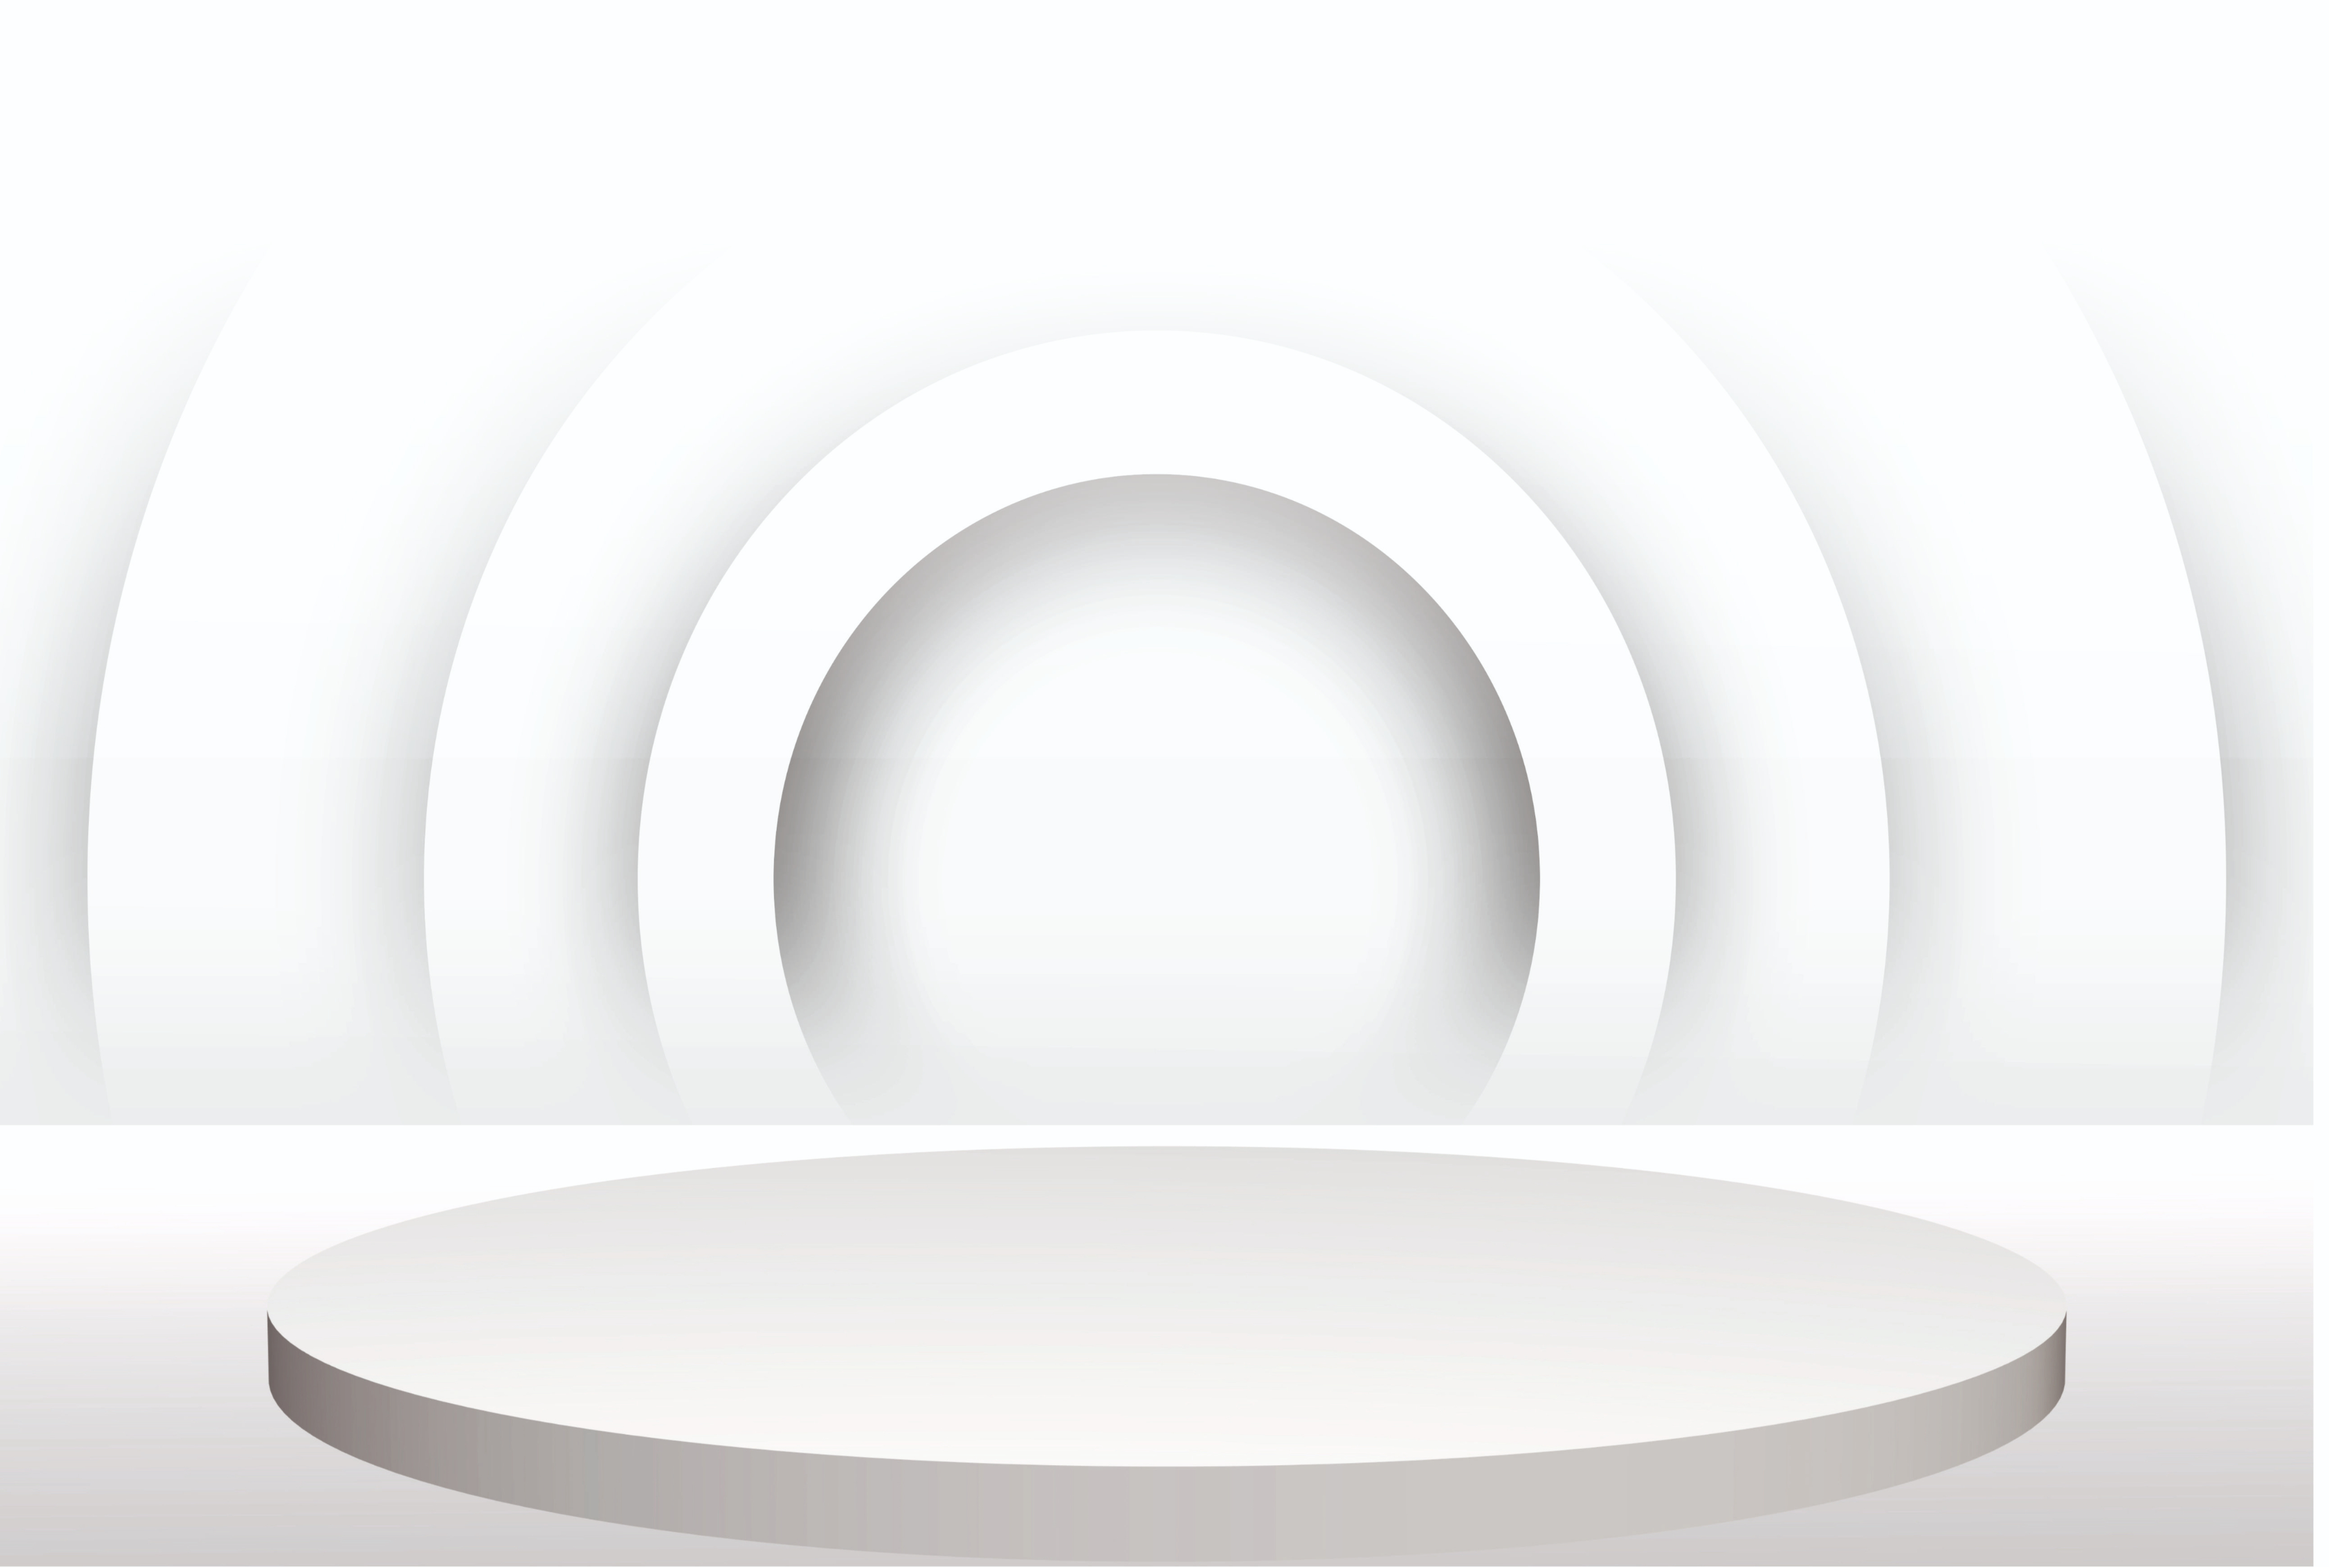
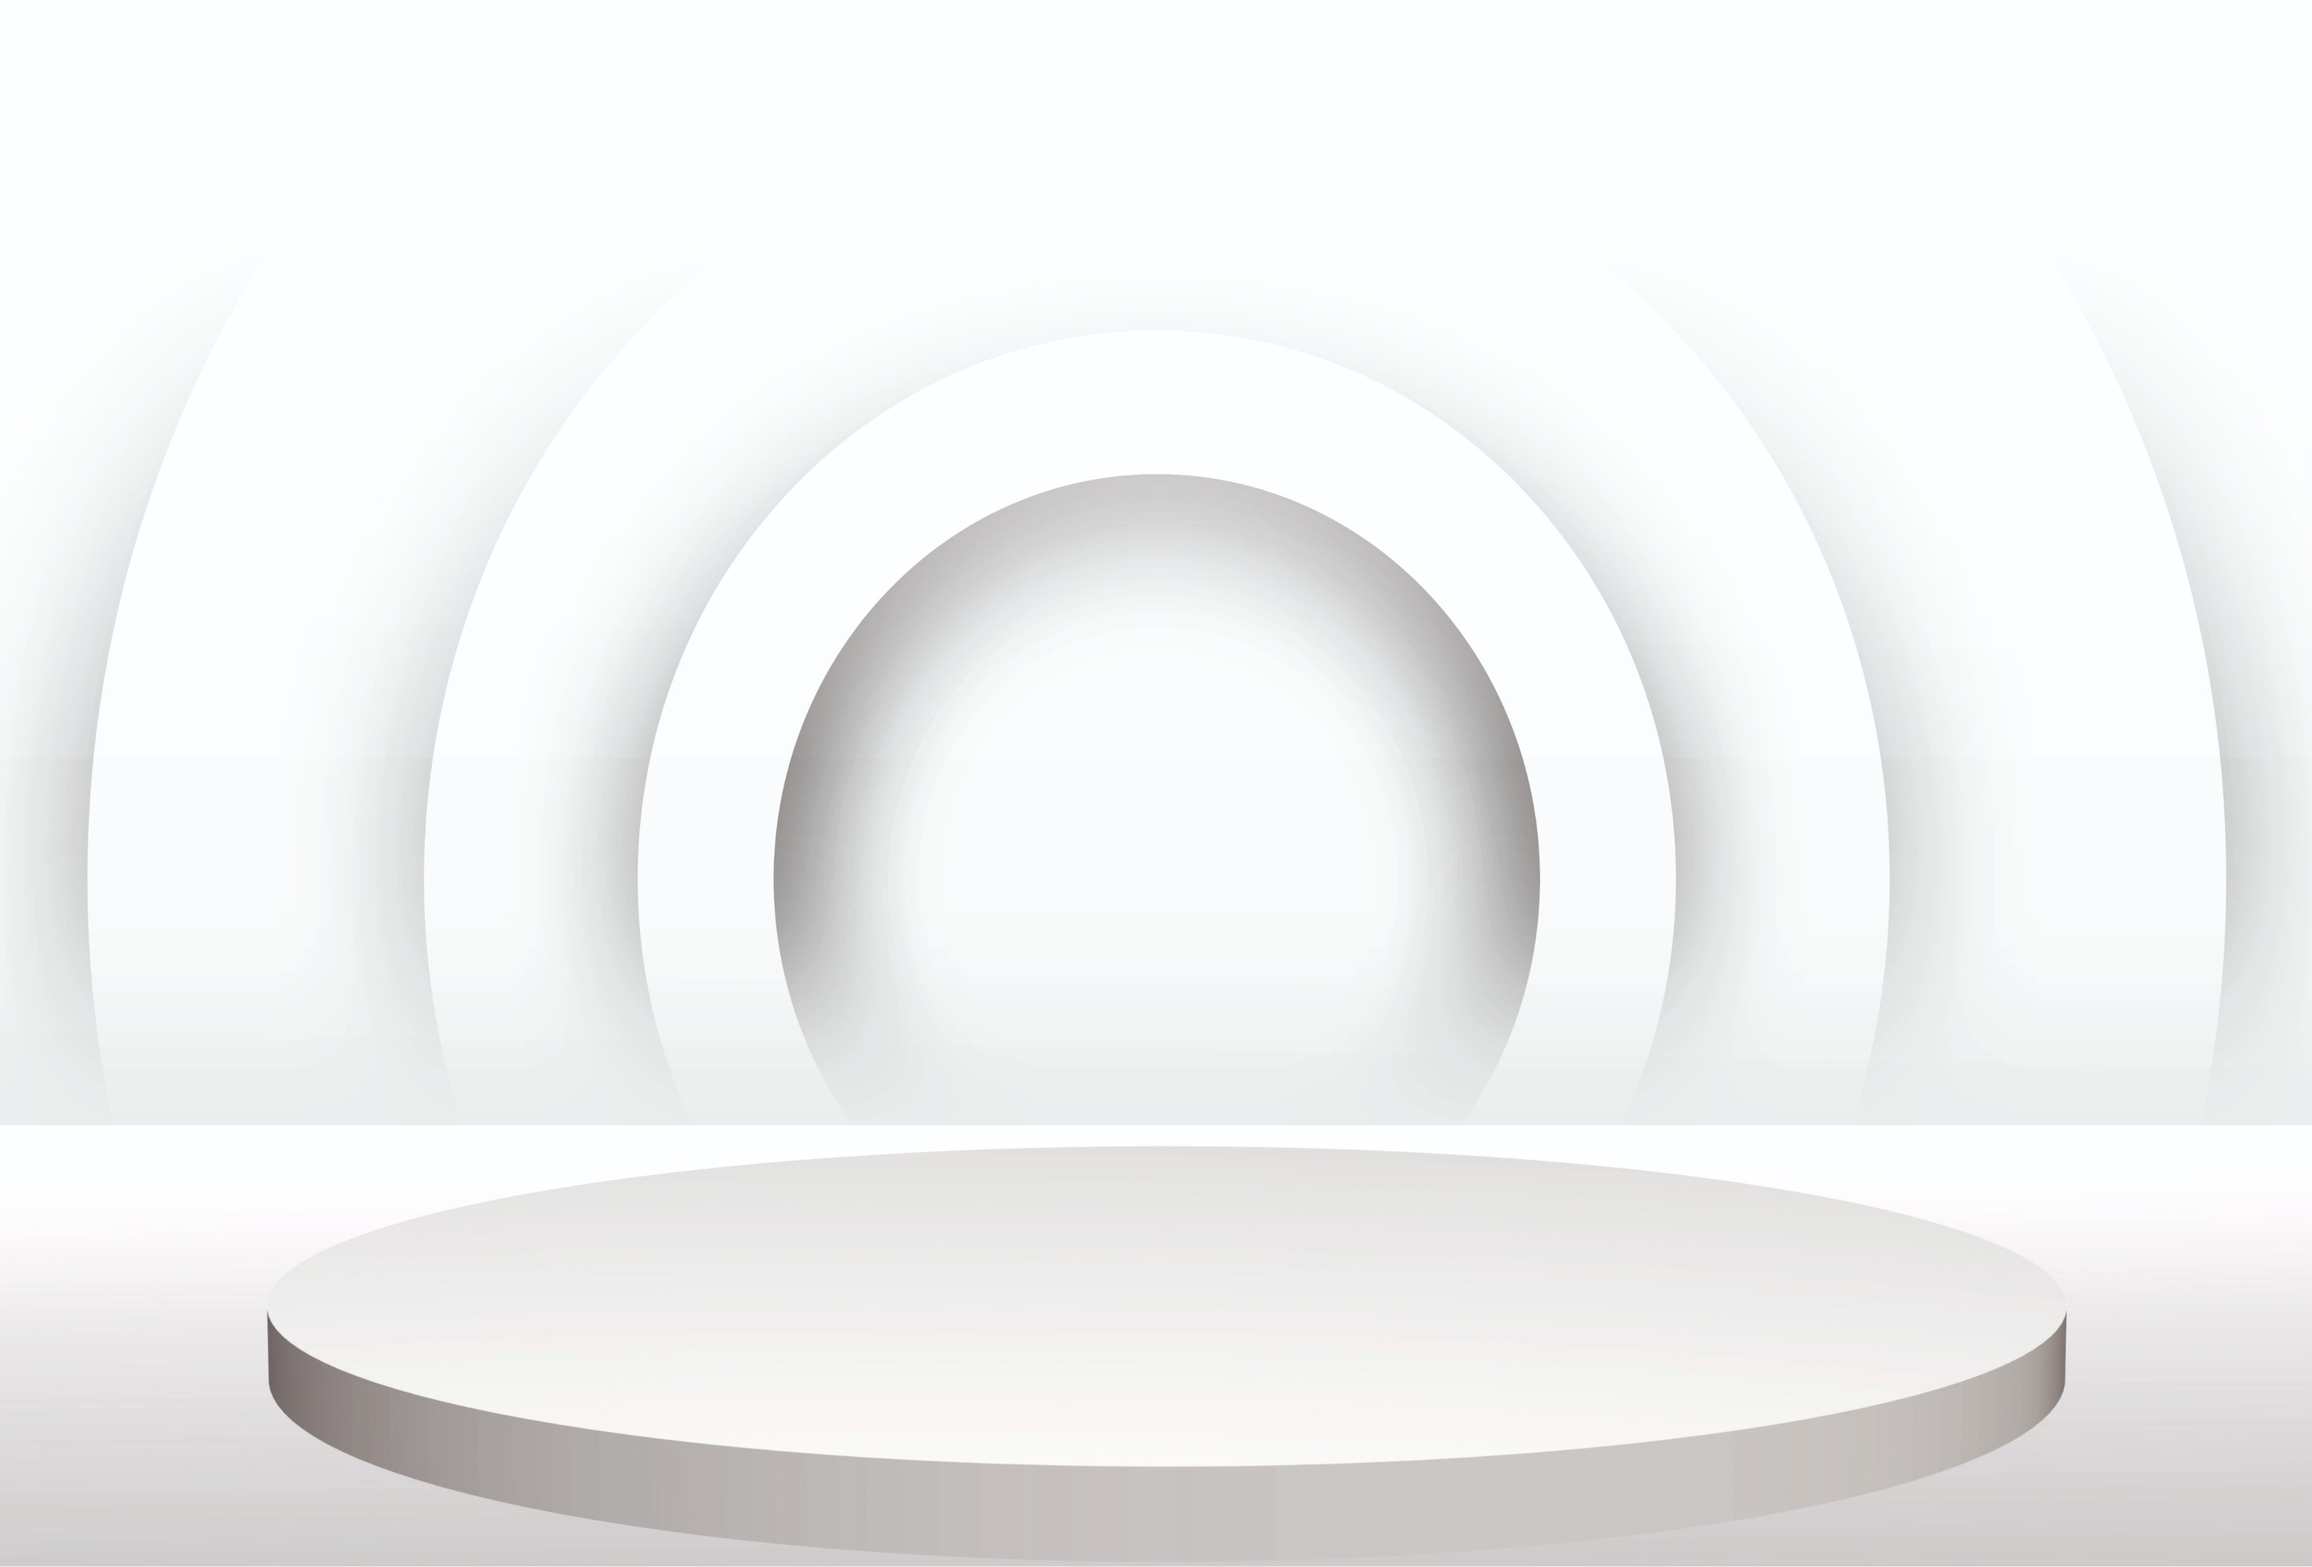
chnage home page hero section

diff --git a/js/homepage.js b/js/homepage.js
@@ -1,25 +1,68 @@
-// hero section
+// only hovered hero section
+// document.addEventListener("DOMContentLoaded", () => {
+//     const cards = document.querySelectorAll(".hero-card");
+//     cards.forEach((card, index) => {
+//         if (index === 0) {
+//             card.classList.add("active");
+//         } else {
+//             card.classList.remove("active");
+//         }
+
+//         card.addEventListener("mouseenter", () => {
+//             cards.forEach(c => c.classList.remove("active"));
+//             card.classList.add("active");
+//         });
+
+//         // Handle click
+//         card.addEventListener("click", () => {
+//             cards.forEach(c => c.classList.remove("active"));
+//             card.classList.add("active");
+//         });
+//     });
+// });
+
+// slider hero section
 document.addEventListener("DOMContentLoaded", () => {
     const cards = document.querySelectorAll(".hero-card");
-    cards.forEach((card, index) => {
-        if (index === 0) {
-            card.classList.add("active");
-        } else {
-            card.classList.remove("active");
-        }
+    let activeIndex = 0;
+    let slideInterval;
 
+    function setActiveCard(index) {
+        cards.forEach(c => c.classList.remove("active"));
+        cards[index].classList.add("active");
+        activeIndex = index;
+    }
+
+    function startAutoSlide() {
+        slideInterval = setInterval(() => {
+            let nextIndex = (activeIndex + 1) % cards.length;
+            setActiveCard(nextIndex);
+        }, 5000); // 5 seconds
+    }
+
+    function resetAutoSlide() {
+        clearInterval(slideInterval);
+        startAutoSlide();
+    }
+
+    // Initialize
+    setActiveCard(0);
+    startAutoSlide();
+
+    // Handle manual hover/click
+    cards.forEach((card, index) => {
         card.addEventListener("mouseenter", () => {
-            cards.forEach(c => c.classList.remove("active"));
-            card.classList.add("active");
+            setActiveCard(index);
+            resetAutoSlide();
         });
 
-        // Handle click
         card.addEventListener("click", () => {
-            cards.forEach(c => c.classList.remove("active"));
-            card.classList.add("active");
+            setActiveCard(index);
+            resetAutoSlide();
         });
     });
 });
+
 
 // product section
 const tabs = document.querySelectorAll(".tab");

diff --git a/contact.html b/contact.html
@@ -158,7 +158,7 @@
                     </div>
                     <div class="number-email">
                         <div>
-                            <i class="fa-solid fa-phone"></i>
+                            <i class="fa-solid fa-envelope"></i>
                         </div>
                         <div>
                             <h4>Write mail</h4>
